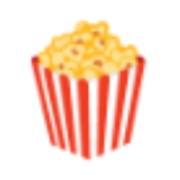
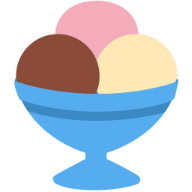
scoop

diff --git a/docs/index.html b/docs/index.html
@@ -8,12 +8,12 @@
       <title>Movie Night</title>
       <meta name="description" content="Une application collaborative pour choisir le film de la soirée ! Proposez des films, votez pour vos préférés, et laissez des commentaires." />
       <meta name="robots" content="noindex, nofollow" />
-        <link rel="icon" href="/movie-night/favicon.ico" />
-        <link rel="apple-touch-icon" sizes="180x180" href="/movie-night/apple-touch-icon.png" />
+        <link rel="icon" href="./favicon.ico" />
+        <link rel="apple-touch-icon" sizes="180x180" href="./apple-touch-icon.png" />
       <style>html, body { height: 100%; margin: 0; } #root { height: 100%; }</style>
       
-      <script type="module" crossorigin src="/movie-night/assets/index-BN9T14Ke.js"></script>
-      <link rel="stylesheet" crossorigin href="/movie-night/assets/index-nm6WhPEY.css">
+      <script type="module" crossorigin src="./assets/index-6vFOvsL9.js"></script>
+      <link rel="stylesheet" crossorigin href="./assets/index-nm6WhPEY.css">
     </head>
 
     <body>

diff --git a/vite.config.ts b/vite.config.ts
@@ -17,7 +17,8 @@ function figmaAssetResolver() {
 }
 
 export default defineConfig({
-  base: '/movie-night/',
+  // Use relative asset paths so GitHub Pages keeps working even if the repo is renamed.
+  base: './',
   plugins: [
     figmaAssetResolver(),
     // The React and Tailwind plugins are both required for Make, even if